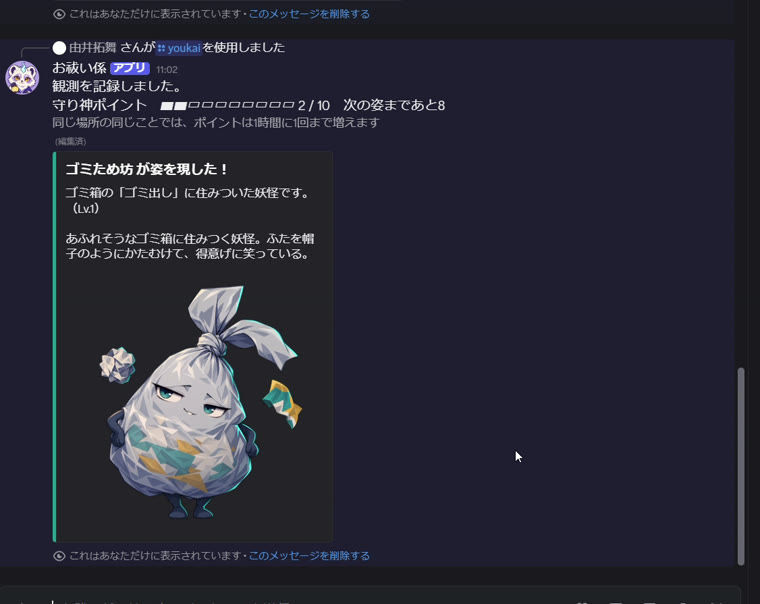
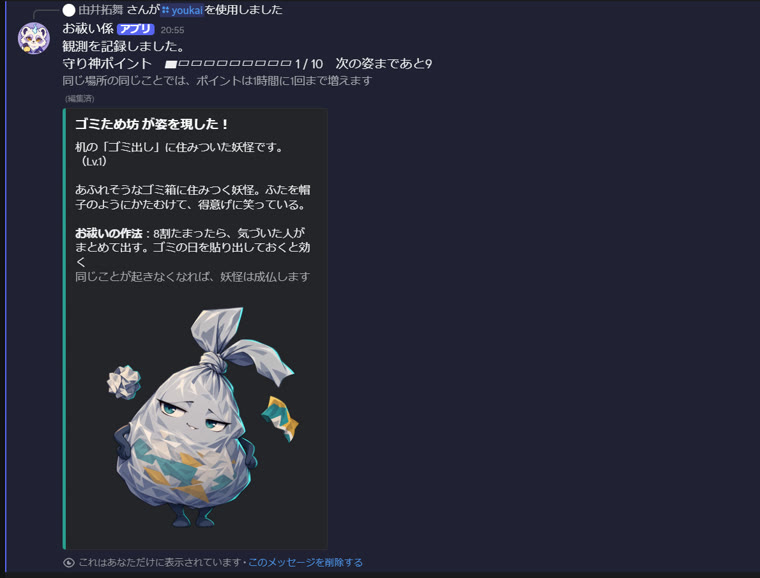
docs: add screenshots of oharai advice, share, and ascend message

diff --git a/README.md b/README.md
@@ -60,9 +60,9 @@
 
 <img src="docs/demo/05-presence-shadow.jpg" width="560" alt="気配と影のカード">
 
-3回目（回数は管理者が設定）で、妖怪が姿を現します。名前・紹介文・画像つきのカードです。
+3回目（回数は管理者が設定）で、妖怪が姿を現します。名前・紹介文・画像に加えて、どうすれば残らなくなるかの「**お祓いの作法**」が出ます。
 
-<img src="docs/demo/06-birth.jpg" width="560" alt="ゴミため坊が姿を現したカード">
+<img src="docs/demo/06-birth.jpg" width="560" alt="ゴミため坊が姿を現したカード。紹介文の下にお祓いの作法">
 
 ### 4. 一覧にない困りごと：匿名で管理者に届く
 
@@ -86,9 +86,13 @@
 
 <img src="docs/demo/10-digest.jpg" width="560" alt="#毎日報告に届いた妖怪だより。気配・影・妖怪誕生の件数と、生まれた妖怪の画像">
 
+生まれた妖怪には、お祓いの作法を添えます。今まで片づけていなかった人にも、名前を出さずに「どうすれば残らなくなるか」が届きます。
+
+<img src="docs/demo/14-digest-oharai.jpg" width="560" alt="妖怪だよりで、ゴミため坊の下にお祓いの作法が出ている">
+
 `/now` で、いま活動中の妖怪を場所ごとに見られます。生まれたばかりの妖怪は、妖怪だよりで知らされるまで `/now` にも出ません。
 
-<img src="docs/demo/11-now.jpg" width="560" alt="/now の結果。場所ごとの妖怪とレベル">
+<img src="docs/demo/11-now.jpg" width="560" alt="/now の結果。場所ごとの妖怪とレベルと、お祓いの作法">
 
 ### 7. 守り神：自分にだけ見える成長（`/mamorigami`）
 
@@ -96,11 +100,15 @@
 
 <img src="docs/demo/12-guardian-evolve.jpg" width="420" alt="守り神の雲の龍が「かたづけ守り」に進化したカード">
 
+`/mamorigami` では、研究室の片づけのうち自分が担った割合も、本人にだけ見えます（撮影では1人で試したので約100%）。片づけが一部の人に偏ったときは、偏りそのものが妖怪「[かたより坊](#かたより坊片づけの偏りも妖怪にする)」として、名前を出さずに妖怪だよりに現れます。
+
+<img src="docs/demo/15-guardian-share.jpg" width="420" alt="/mamorigami で、あなたが担ったのは約100%ですと表示されている">
+
 ### 8. 成仏：問題が起きなくなった証
 
 最後の観測から一定の日数、誰も観測しなかった妖怪は成仏し、お札のついた姿で妖怪だよりに載ります（撮影では `/demo` でアプリの中の時間を進めています）。成仏したときは、「置き場所を変えた、当番を決めたなど、効いた工夫があれば返信で共有しよう」と呼びかけ、うまくいった工夫を研究室の中で分かち合えるようにしています。
 
-<img src="docs/demo/13-ascend.jpg" width="560" alt="妖怪だよりに載った、成仏したスッキリ坊とゴミため坊">
+<img src="docs/demo/13-ascend.jpg" width="560" alt="妖怪だよりに載った、成仏したゴミため坊と、効いた工夫の共有の呼びかけ">
 
 ## 解決したいこと
 
